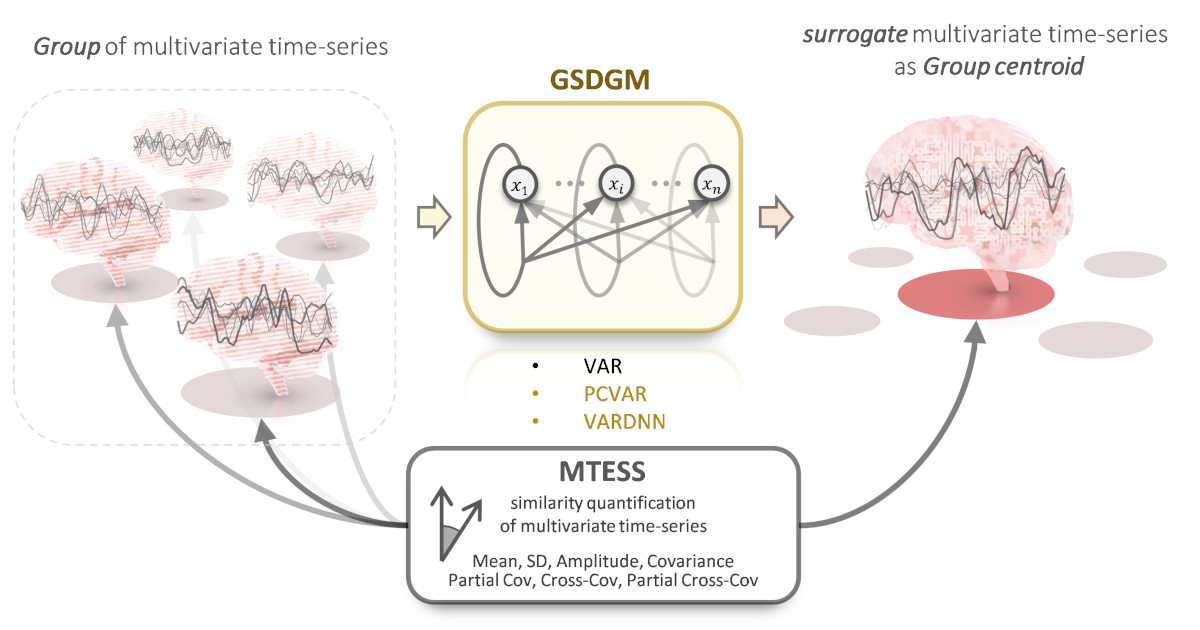
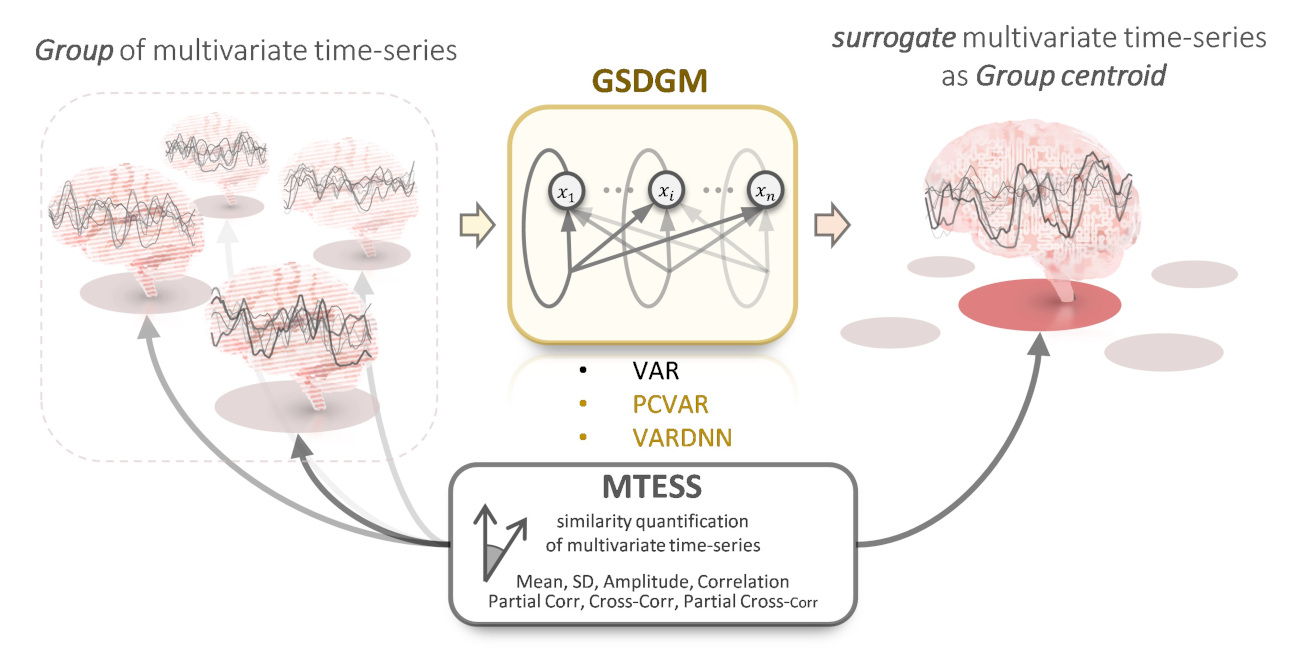
fixed cov to corr.

diff --git a/README.md b/README.md
@@ -16,7 +16,7 @@ This allows us to have the most biologically plausible standardized human brain 
 </div>
 
 MTESS can quantify similarity between two multivariate time-series.
-It is consisted by normalized distance and cos-similarity of seven basic statistical properties, such as mean, standard deviation, auto-covariance, covariance matrix, partial covariance matrix, cross-covariance matrix and partial cross-covariance matrix.
+It is consisted by normalized distance and cos-similarity of seven basic statistical properties, such as mean, standard deviation, auto-correlation, correlation matrix, partial correlation matrix, cross-correlation matrix and partial cross-correlation matrix.
 Therefore, you can identify which statistical property is different between two multivariate time-series by MTESS radar chart.
 Total difference between two multivariate time-series is expressed by single value [0, 5] (0: not similar to 5: similar)(MTESS), and each node difference is also expressed (Node MTESS).
 
